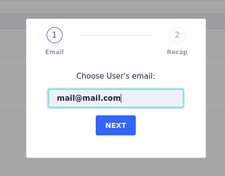
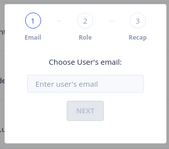
update

diff --git a/manualeUtente/content/4 Applicazione web/4.4 Gestione utenti/4.4.4 Aggiunta.md b/manualeUtente/content/4 Applicazione web/4.4 Gestione utenti/4.4.4 Aggiunta.md
@@ -1,8 +1,10 @@
 ## Aggiunta di un nuovo utente nel sistema
 Entrando nella sezione **Users**, visibile a sinistra dell'interfaccia, oltre a visualizzare la lista di tutti gli account registrati nel sistema, è possibile aggiungere un nuovo utente premendo sull’apposita funzionalità di aggiunta denotata dalla seguente icona: ![icona aggiungi](assets/web/addbutton.png)</br>
 
-Nella schermata che comparirà sarà quindi necessario inserire l'indirizzo email del nuovo utente e selezionare il ruolo da assegnarvi.<br>
+Una volta invocata la funzione di aggiunta, apparirà una nuova schermata a video dove sarà necessario inserire l'indirizzo email del nuovo utente e, dopo aver premuto sul pulsante recante la scritta "**next**",  selezionare il ruolo da assegnarvi.<br>
 ![schermata aggiunta utente](assets/web/adduser.png)</br>
+
+Una volta inseriti tutti i dati richiesti, per confermare l'inserimento del nuovo utente sarà necessario premere il pulsante recante la scritta "**confirm**".
 
 >Qualora l'indirizzo email inserito contenga caratteri non validi o sia già presente nel sistema, verrà visualizzato a video un messaggio di errore auto-esplicativo.
 
